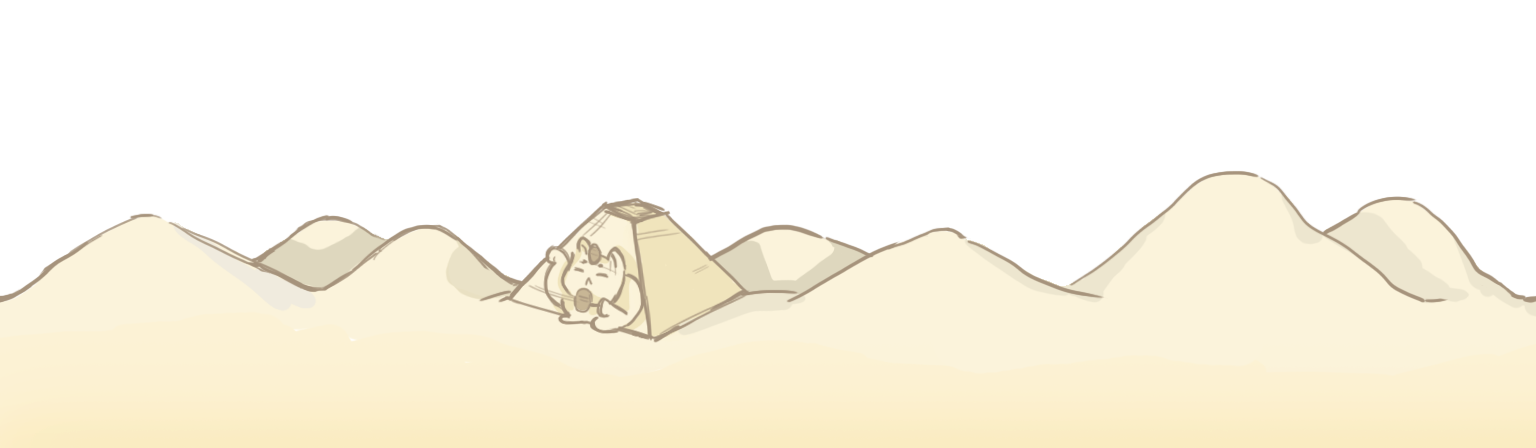
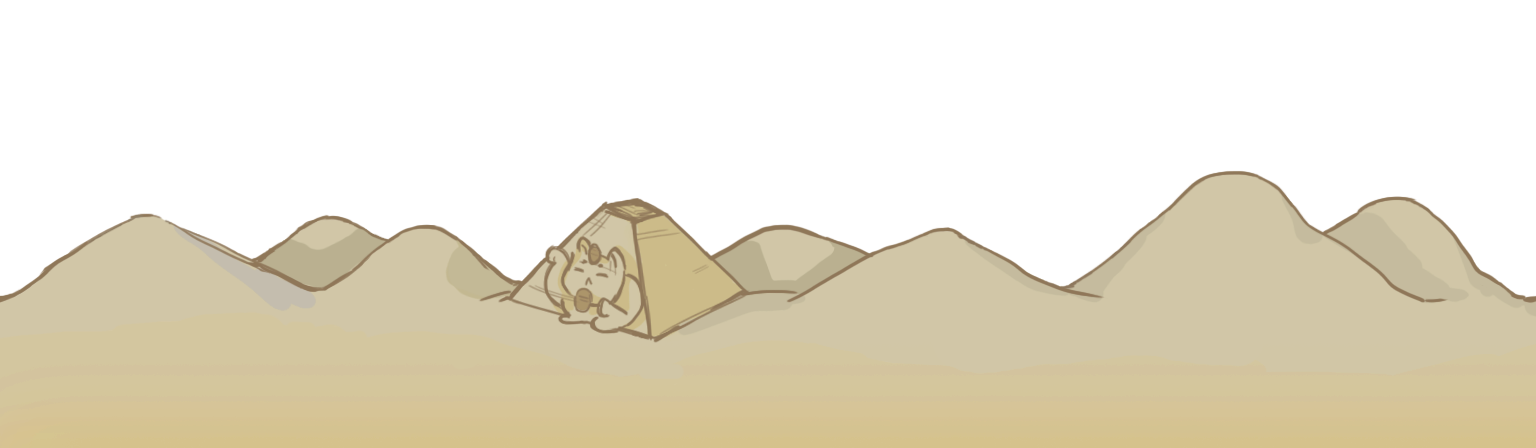
asd

diff --git a/프로그래밍/FrozenTetris/PythonFrozen1/myHeader.py b/프로그래밍/FrozenTetris/PythonFrozen1/myHeader.py
@@ -10,7 +10,7 @@ WINDOWHEIGHT = 540
 SCREEN_SPEED = 1
 MOVEBLOCK = 0
 MOVECNT = 0
-STATE = "TITLE"
+STATE = "GAME"
 SCORE = 0
 
 ## tetris
@@ -35,8 +35,8 @@ LIGHTRED    = (175,  20,  20)
 GREEN       = (  0, 255,   0)
 LIGHTGREEN  = ( 20, 175,  20)
 BLUE        = (  0,   0, 155)
-LIGHTBLUE   = ( 90,  170, 200)
-YELLOW      = (155, 155,   0)
+LIGHTBLUE   = ( 90, 170, 200)
+YELLOW      = (200, 190, 150)
 LIGHTYELLOW = (175, 175,  20)
 COLORS      = (     BLUE,      GREEN,      RED,      YELLOW)
 # BLOCKTYPE = ('images/block_1.png','images/ground_2.png','images/underground_6.png','images/box.png')
@@ -50,7 +50,7 @@ BACKTYPE = [('resources/graphics/stage1_sky/background/stage_bg1.png','resources
 back1 = {'x':0,'y':0,'width':0,'height':0}
 back2 = {'x':0,'y':0,'width':0,'height':0}
 backImg1 = pygame.image.load(BACKTYPE[0][0])
-backImg2 = pygame.image.load(BACKTYPE[1][1])
+backImg2 = pygame.image.load(BACKTYPE[1][0])
 BACKIMG = [backImg1,backImg2]
 
 BACK_WIDTH_STAGE2 = 1536
@@ -289,7 +289,7 @@ FEZ_IMG_JUMP_LEFT4 = pygame.transform.flip(FEZ_IMG_JUMP_RIGHT4,True,False)
 fez = {'img':FEZ_IMG_RIGHT,'dir':'right','width':FEZ_WIDTH_SIZE,'height':FEZ_HEIGHT_SIZE,
        'topX':FEZ_START_X,'topY':FEZ_START_Y,
        'leftLegX':FEZ_START_X+FEZ_LEG_LEFT_GAP,'rightLegX':FEZ_START_X+FEZ_WIDTH_SIZE-FEZ_LEG_RIGHT_GAP,
-       'botY':FEZ_START_Y+FEZ_HEIGHT_SIZE,'jump':9999,'speed':FEZ_SPEED,'stage':0}
+       'botY':FEZ_START_Y+FEZ_HEIGHT_SIZE,'jump':9999,'speed':FEZ_SPEED,'stage':1}
 
 fez['rect'] = pygame.Rect((fez['topX'],fez['topY'],fez['width'],fez['height']))
 

diff --git a/프로그래밍/FrozenTetris/PythonFrozen1/PythonFrozen1.py b/프로그래밍/FrozenTetris/PythonFrozen1/PythonFrozen1.py
@@ -217,8 +217,8 @@ def dataProcess():
         jumpFez()
         if collisionBlockDown(fez['leftLegX'],fez['rightLegX'],fez['botY']+5) == False:
             fallFez()
-        checkEnemyFez()
         if bGameOver == False:
+            checkEnemyFez()
             checkGameover()
 
     if STATE=="GAME" and NETWORK.bConnect:
@@ -717,12 +717,13 @@ def setFezPos(x, y, jump):
 
 
 def checkEnemyFez():
-    #global STATE
+    global SCORE, bGameOver
     for i in range(len(m_Enemy)):
         eRect = pygame.Rect((m_Enemy[i].x,m_Enemy[i].y,m_Enemy[i].width,m_Enemy[i].height))
         fez['rect'] = pygame.Rect((fez['topX'],fez['topY'],fez['width'],fez['height']))
         if eRect.colliderect(fez['rect']):
             sendServer({"action":"gameOver", "score":SCORE})
+            bGameOver = True
 
 def checkGameover():
     global SCORE, STATE, bGameOver
@@ -830,8 +831,8 @@ def coinPop():
 def drawBackGround():
     rect1 = pygame.Rect((back1['x'],back1['y'],back1['width'],back1['height']))
     rect2 = pygame.Rect((back2['x'],back2['y'],back2['width'],back2['height']))
-    DISPLAYSURF.blit(BACKIMG[fez['stage']],rect1)
-    DISPLAYSURF.blit(BACKIMG[fez['stage']],rect2)
+    DISPLAYSURF.blit(BACKIMG[fez['stage']], rect1)
+    DISPLAYSURF.blit(BACKIMG[fez['stage']], rect2)
 
 def drawBoard():
     for y in range(MAP_HEIGHT_CNT):
